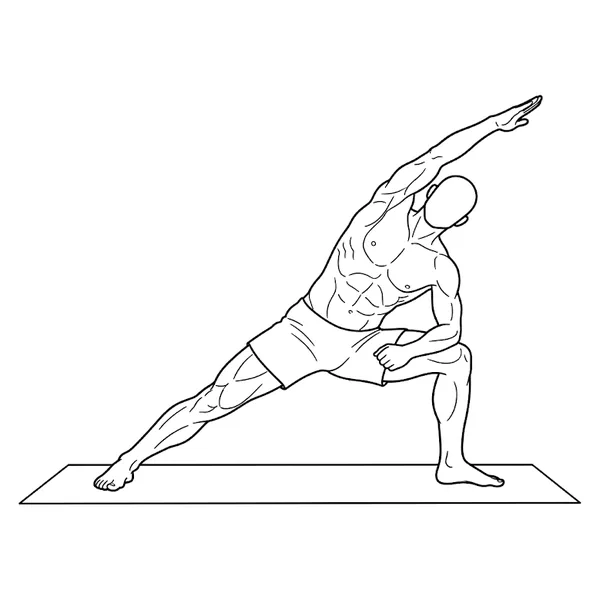
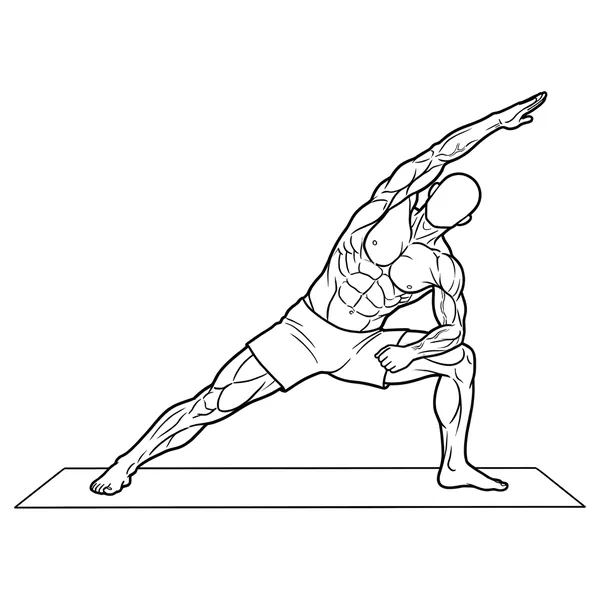
0.60.14: treinta dibujos mas con mas musculo (spinning, sprints, trineo, split, zancadas y 25 posturas de yoga)

Changed region(s): [[0.03, 0.15, 0.99, 0.87], [0.78, 0.3, 0.81, 0.36]]

diff --git a/web/sw.js b/web/sw.js
@@ -7,12 +7,12 @@
 // Solo se ocupa del CÓDIGO de la app. Los datos del usuario nunca pasan por
 // aquí: viven en el dispositivo (IndexedDB) y en su Google Drive.
 
-const VERSION = '0.60.13';
+const VERSION = '0.60.14';
 const CACHE = `entreno-${VERSION}`;
 // Las imágenes van en un almacén aparte que NO se borra al actualizar la app:
 // así se ven sin conexión aunque haya salido una versión nueva.
 // Si cambian las imágenes, se sube el número y los móviles bajan las nuevas.
-const CACHE_IMAGENES = 'entreno-imagenes-23';  // el mismo nombre en app.js (guardarImagenesParaSinConexion)
+const CACHE_IMAGENES = 'entreno-imagenes-24';  // el mismo nombre en app.js (guardarImagenesParaSinConexion)
 
 const ARCHIVOS = [
   './',

diff --git a/web/js/app.js b/web/js/app.js
@@ -236,7 +236,7 @@ async function guardarImagenesParaSinConexion() {
     const capas = Object.entries(MUSCULOS).flatMap(([clave, m]) => m.vistas.map((v) => archivoCapa(clave, v)));
     const cuerpo = ['imagenes/musculos/cuerpo-delante.svg', 'imagenes/musculos/cuerpo-detras.svg'];
     // El mismo nombre que CACHE_IMAGENES en sw.js: si no, el service worker lo borra.
-    const cache = await caches.open('entreno-imagenes-23');
+    const cache = await caches.open('entreno-imagenes-24');
     for (const ruta of [...cuerpo, ...capas, ...mios]) {
       if (!(await cache.match(ruta, { ignoreSearch: true }))) {
         const r = await fetch(ruta).catch(() => null);

diff --git a/web/js/version.js b/web/js/version.js
@@ -1,3 +1,3 @@
 // Versión del código de la app. Se sube en cada publicación y debe coincidir
 // con VERSION en sw.js, que es lo que hace que los móviles se actualicen.
-export const VERSION_APP = '0.60.13';
+export const VERSION_APP = '0.60.14';

diff --git a/CLAUDE.md b/CLAUDE.md
@@ -1169,3 +1169,7 @@ fase), tras probar la A.
   los dos pasos en la MISMA conversación de Gemini (primero «más músculo» o el aparato, luego «sobre esta última
   imagen, cambia solo la postura»): salen del mismo lienzo y el hombre es el mismo. Gemini cambia poco las
   posturas en máquinas (hack, puente, gemelos): recorrido corto. Almacén `entreno-imagenes-23`.
+- 0.60.14 (23-10-2026, mañana): 30 dibujos más de la cola «más músculo» (spinning, sprints, trineo, split,
+  zancadas y 25 posturas de yoga); quedan 42 (yoga, desde «cabeza a la rodilla girada»). Gemini se reabre a las
+  10:38; las dos cuentas de ChatGPT, agotadas. Las zancadas hacia atrás se quedan como estaban (la IA giraba la
+  segunda figura de frente). Almacén `entreno-imagenes-24`.

diff --git a/imagenes-ia/cola.md b/imagenes-ia/cola.md
@@ -73,3 +73,6 @@ Hecho el 23-10 por la mañana (0.60.13): press militar de pie, puente de glúteo
 crunch inverso, encogimientos, hack, superman, pájaros en contractora, gemelos en multipower, fondos negativos y
 patada de glúteo. Quedan: press militar sentado (completar piernas y teletransporte), remo en polea al pecho
 (teletransporte del de Everkinetic) y los 72 de la cola «más músculo» (sobre todo yoga). Animar cardio: no sale con ninguna IA.
+Hecho el 23-10 por la mañana (0.60.14): 30 de la cola «más músculo» (60 a 89). Quedan 42, del 90 (cabeza a la
+rodilla girada) al 131. Revisar: zancadas hacia atrás (rehacer: la IA gira la segunda figura de frente; sigue la
+de antes), montaña (sale sin pantalón), águila (pantalón a cuadros).
